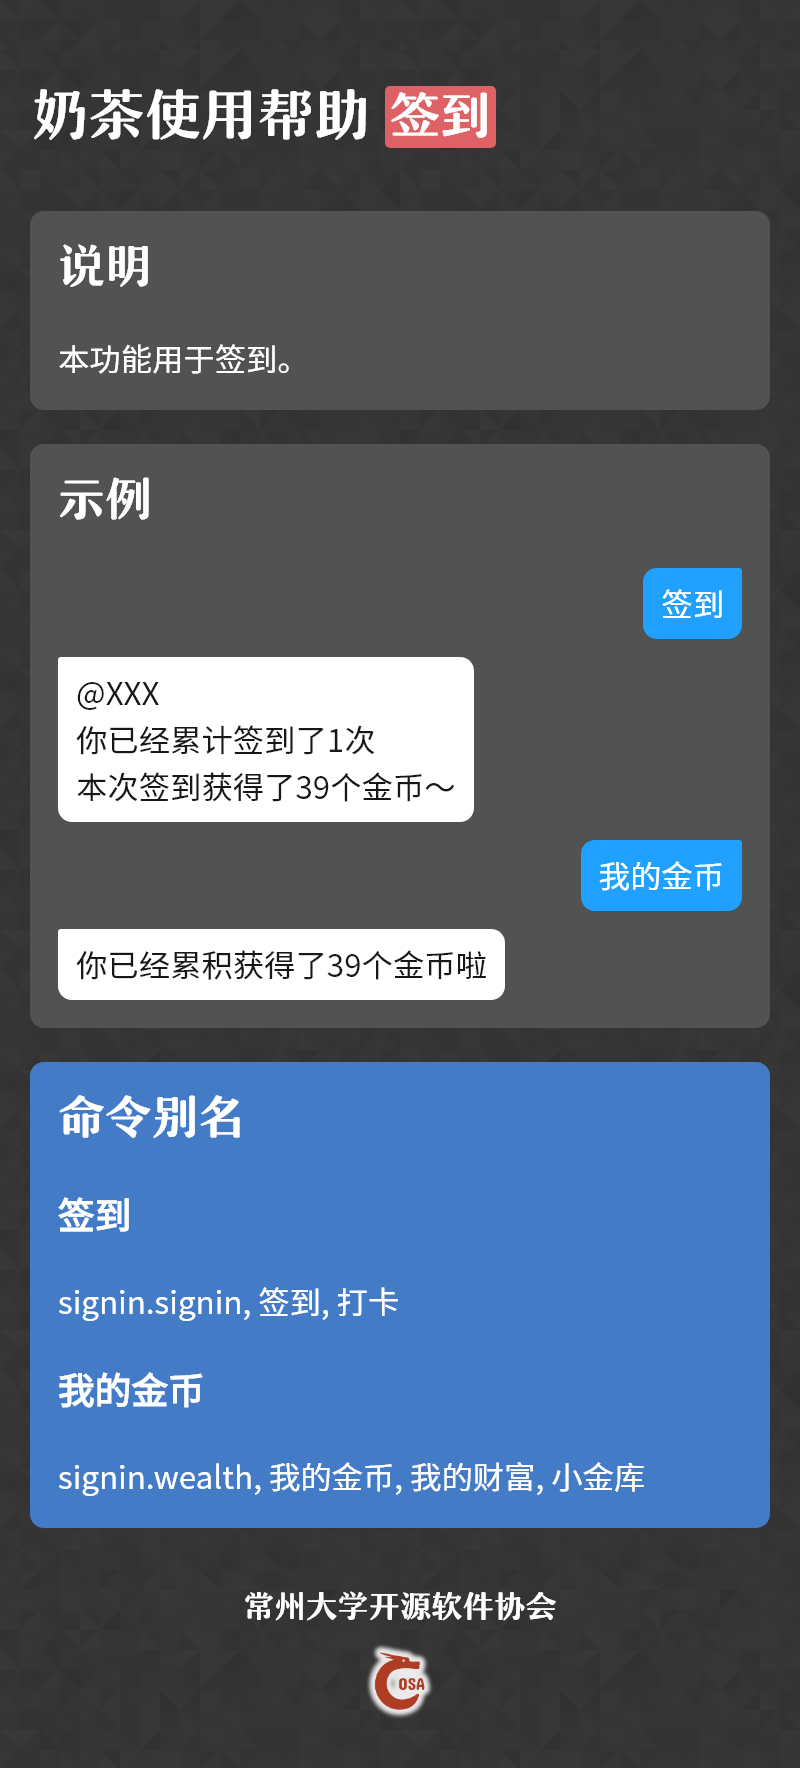
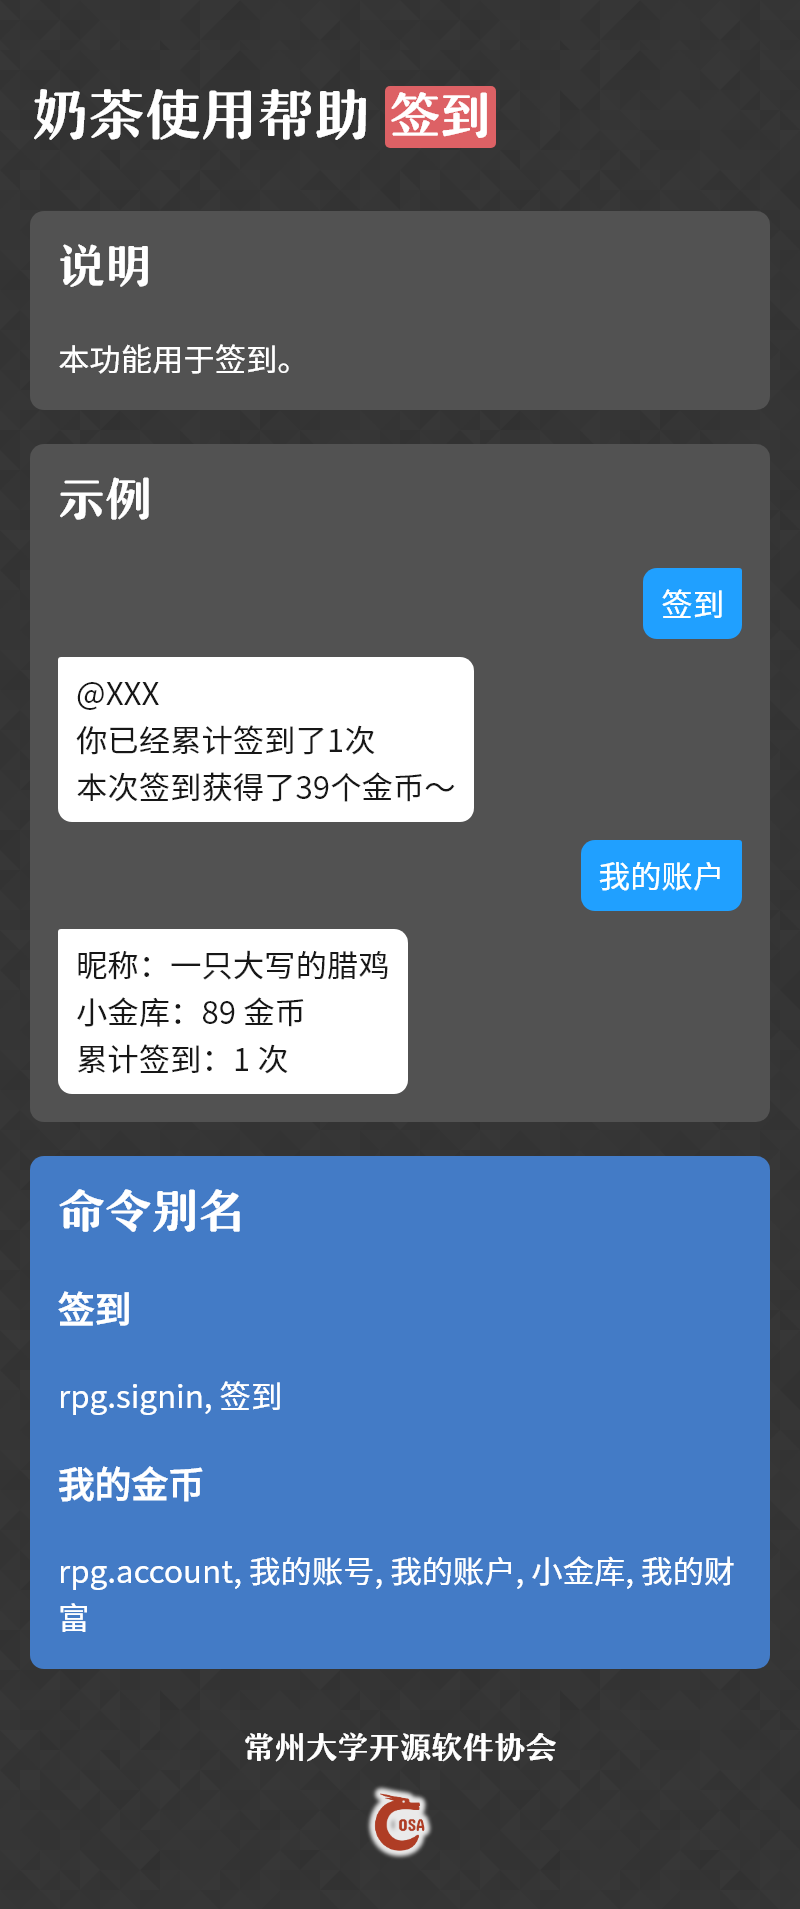
更新使用帮助

diff --git a/manual/签到.html b/manual/签到.html
@@ -28,14 +28,16 @@
   <div class="bubble-wrapper right">
     <div class="bubble">
       <p>
-        我的金币
+        我的账户
       </p>
     </div>
   </div>
   <div class="bubble-wrapper left">
     <div class="bubble">
       <p>
-        你已经累积获得了39个金币啦
+        昵称：一只大写的腊鸡<br>
+        小金库：89 金币<br>
+        累计签到：1 次
       </p>
     </div>
   </div>
@@ -46,12 +48,12 @@
 
   <h3>签到</h3>
   <p>
-    signin.signin, 签到, 打卡
+    rpg.signin, 签到
   </p>
 
   <h3>我的金币</h3>
   <p>
-    signin.wealth, 我的金币, 我的财富, 小金库
+    rpg.account, 我的账号, 我的账户, 小金库, 我的财富
   </p>
 </section>
 

diff --git a/manual/index.html b/manual/index.html
@@ -36,7 +36,7 @@
     订阅 <span class="author">by 钱宇超</span><br>
     跟我说 <span class="author">by 钱宇超</span><br>
     吃什么 (常大专用) <span class="author">by 张天锐</span><br>
-    签到 <span class="author">by 储成龙</span><br>
+    签到 <span class="author">by 储成龙 & 钱宇超</span><br>
     点歌 <span class="author">by 钱宇超</span><br>
     airAnime <span class="author">by 钱宇超</span><br>
     天气 <span class="author">by 钱宇超</span><br>

diff --git a/aki/plugins/rpg/__init__.py b/aki/plugins/rpg/__init__.py
@@ -1,5 +1,7 @@
 from nonebot import CommandGroup
 
+__plugin_name__ = '签到'
+
 cg = CommandGroup('rpg')
 
 from . import account, signin
